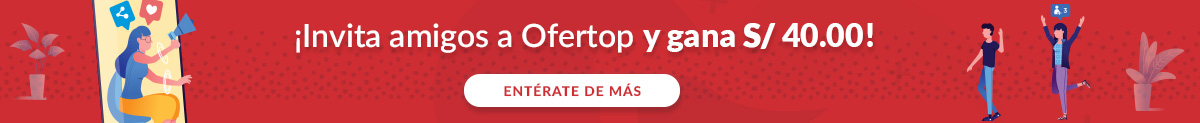
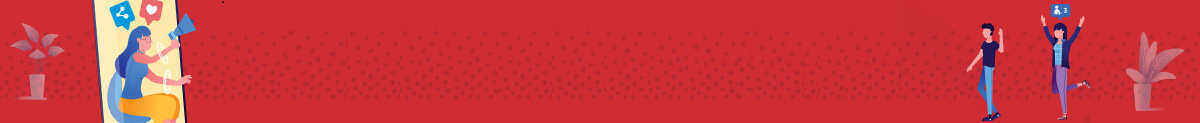
Actualización de OfertasPage.jsx
Correciones

diff --git a/okea-web-proyect/src/pages/Ofertas/OfertasPage.jsx b/okea-web-proyect/src/pages/Ofertas/OfertasPage.jsx
@@ -1,5 +1,5 @@
 import React, { useRef, useState } from "react";
-
+import { useNavigate } from "react-router-dom";
 import bannerImage from "../../assets/imagenes/Ofertas/banner.png";
 import bootsImage from "../../assets/imagenes/Ofertas/bota_banner.png";
 import sneakersImage from "../../assets/imagenes/Ofertas/zapatilla_banner.png";
@@ -10,7 +10,6 @@ import Producto2Image from "../../assets/imagenes/Ofertas/imagen2.png";
 import Producto3Image from "../../assets/imagenes/Ofertas/imagen3.png";
 import Producto4Image from "../../assets/imagenes/Ofertas/imagen4.png";
 import Producto5Image from "../../assets/imagenes/Ofertas/imagen5.png";
-import Producto6Image from "../../assets/imagenes/Ofertas/imagen6.png";
 import banner2Image from "../../assets/imagenes/Categorias/Panel/PanelCalzado.png";
 import Producto7Image from "../../assets/imagenes/Ofertas/imagen7.png";
 import Producto8Image from "../../assets/imagenes/Ofertas/imagen8.png";
@@ -18,29 +17,29 @@ import Producto9Image from "../../assets/imagenes/Ofertas/imagen9.png";
 import Producto10Image from "../../assets/imagenes/Ofertas/imagen10.png";
 import Producto111Image from "../../assets/imagenes/Ofertas/imagen111.png";
 import Producto121Image from "../../assets/imagenes/Ofertas/imagen121.png";
-import Frame1Image from "../../assets/imagenes/Ofertas/Frame1.png";
 import Producto13Image from "../../assets/imagenes/Ofertas/imagen13.jpg";
 import Producto141Image from "../../assets/imagenes/Ofertas/image14.png";
 import Producto15Image from "../../assets/imagenes/Ofertas/imagen15.jpg";
 import Producto16Image from "../../assets/imagenes/Ofertas/imagen16.png";
 import Producto17Image from "../../assets/imagenes/Ofertas/imagen17.png";
-import Frame2Image from "../../assets/imagenes/Ofertas/Frame2.png";
 import Producto19Image from "../../assets/imagenes/Ofertas/imagen19.png";
 import Producto20Image from "../../assets/imagenes/Ofertas/imagen20.png";
 import Producto21Image from "../../assets/imagenes/Ofertas/imagen21.png";
 import Producto22Image from "../../assets/imagenes/Ofertas/imagen22.png";
 import Producto23Image from "../../assets/imagenes/Ofertas/imagen23.png";
-import Frame4Image from "../../assets/imagenes/Ofertas/Frame4.png";
 import FooterPequeño from "../../components/Footer/FooterPequeño";
 import FooterGrande from "../../components/Footer/FooterGrande";
 import BloqueDeServicios from "../../components/BloqueDeServicios";
 import MarcasDestacadas from "../../components/MarcasDestacadas";
 import ProductCard from "../../components/ProductCard.jsx";
+import CardDescuento from './CardDescuento.jsx';
+import BannerOfertop from "./BannerOfertop.jsx";
 import { TagIconSmall, TagIconSmallDarkMode, ArrowRightIconBlack, ArrowLeftGrayBlueIcon, ArrowRightGrayBlueIcon } from "../../assets/iconos/iconoHome.jsx";
 import { useTheme } from "../../components/ThemeContext";
 
 export default function Oferta1() {
   const { isLight } = useTheme();
+  const navigate = useNavigate();
   const [currentSlide, setCurrentSlide] = useState(0);
   const slides = [bannerImage, banner2Image];
   const slidesPresentacion = [
@@ -69,7 +68,7 @@ export default function Oferta1() {
           </p>
 
           <div className="bg-[#5D1320] text-white shadow-lg cursor-pointer hover:bg-[#7D1C2A] transition-colors z-20
-            py-3 px-8 md:py-5 mb-10">
+            py-3 px-8 md:py-5 mb-10" onClick={() => navigate("/catalogo/calzado")}>
             <span className="text-base sm:text-lg lg:text-xl xl:text-2xl 2xl:text-2xl font-medium tracking-wide">
               F/W NUEVA COLECCIÓN
             </span>
@@ -149,7 +148,6 @@ export default function Oferta1() {
   };
 
   const containerClass = "w-full max-w-[1591px] mx-auto px-4 sm:px-6 lg:px-10";
-  const highlightCardClass = `relative flex h-[340px] sm:h-[360px] lg:h-[382px] w-full max-w-[516px] items-center justify-center rounded-[2px] border transition-colors duration-300 ease-in-out ${isLight ? "bg-white border-white/0" : "bg-[#292272] border-white/10"}`;
   const showcaseCardClass = `relative overflow-hidden rounded-[2px] transition-colors duration-300 ease-in-out`;
   const sliderSurfaceClass = `rounded-[2px] border transition-colors duration-300 ease-in-out ${isLight ? "border-white/0 bg-white" : "border-white/0 bg-[#120F31]"}`;
   const trackGap = "gap-6 sm:gap-7 lg:gap-8";
@@ -159,9 +157,9 @@ export default function Oferta1() {
   const bannerCtaClass = "flex items-center gap-2 rounded-full bg-[#DFE162] px-5 py-2.5 text-[#484900]";
 
   const highlightedOffers = [
-    { id: "highlight-1", image: Producto2Image, alt: "Producto destacado 1" },
-    { id: "highlight-2", image: Producto3Image, alt: "Producto destacado 2" },
-    { id: "highlight-3", image: Producto4Image, alt: "Producto destacado 3" },
+    { id: "highlight-1", discount: 50, discountArea: "Sofás", image: Producto2Image, area: "muebles-y-organizacion"},
+    { id: "highlight-2", discount: 30, discountArea: "Sofás", image: Producto3Image, area: "calzado"},
+    { id: "highlight-3", discount: 10, discountArea: "Sofás", image: Producto4Image, area: "tecnologia"},
   ];
 
   const premiumHighlights = [
@@ -287,19 +285,14 @@ export default function Oferta1() {
       </div>
 
       <div className={`${containerClass} mt-16`}>
-        <img
-          src={barraImage}
-          alt="Invita a tus amigos"
-          className="w-full rounded-[16px] object-cover"
-        />
+        <BannerOfertop backgroundImage={barraImage} />
       </div>
 
       <div className={`${containerClass} mt-10`}>
-        <div className={`flex flex-col md:flex-row justify-center items-center ${trackGap} rounded-[32px]`}>
+        <div className={`grid grid-cols-1 md:grid-cols-3 gap-6 justify-center items-center w-fit mx-auto`}>
           {highlightedOffers.map((offer) => (
-            <div key={offer.id} className={`${highlightCardClass} rounded-[32px]`}>
-              <img src={offer.image} alt={offer.alt} className="h-full w-full rounded-[16px]" />
-              <img src={Frame4Image} alt="Etiqueta de descuento" className="absolute left-0 -top-2 w-[140px]" />
+            <div key={offer.id} className="w-full">
+              <CardDescuento discount={offer.discount} discountArea={offer.discountArea} area={offer.area} image={offer.image} />
             </div>
           ))}
         </div>
@@ -309,7 +302,9 @@ export default function Oferta1() {
         <img
           src={Producto5Image}
           alt="Mundo Apple"
-          className="w-full rounded-[32px] object-cover shadow-[0_18px_48px_rgba(44,80,158,0.12)]"
+          draggable="false"
+          className="w-full rounded-[32px] object-cover shadow-[0_18px_48px_rgba(44,80,158,0.12)] cursor-pointer"
+          onClick={() => navigate("/catalogo/tecnologia")}
         />
       </div>
 
@@ -333,7 +328,7 @@ export default function Oferta1() {
           <p className={`${bannerSubtitleClass} py-1.5`} style={getTextStyle()}>
             Favoritos que te van a encantar
           </p>
-          <button className={bannerCtaClass}>
+          <button className={`${bannerCtaClass} lg:hover:bg-green-500 lg:hover:text-black lg:transition-colors lg:duration-300 lg:cursor-pointer`} onClick={() => navigate("/catalogo/calzado")}>
             <span className="font-popins text-sm">Ver todo</span>
             <div className="scale-60 -my-0.5">
               <ArrowRightIconBlack />
@@ -424,7 +419,7 @@ export default function Oferta1() {
           <p className={`${bannerSubtitleClass} py-1.5`} style={getTextStyle()}>
             Favoritos que te van a encantar
           </p>
-          <button className={bannerCtaClass}>
+          <button className={`${bannerCtaClass} lg:hover:bg-green-500 lg:hover:text-black lg:transition-colors lg:duration-300 lg:cursor-pointer`} onClick={() => navigate("/catalogo/tecnologia")}>
             <span className="font-popins text-sm">Ver todo</span>
             <div className="scale-60 -my-0.5">
               <ArrowRightIconBlack />
@@ -473,7 +468,7 @@ export default function Oferta1() {
               key={item.id}
               className={`${showcaseCardClass} col-span-full ${item.colSpan} flex items-center justify-center ${item.heightClass}`}
             >
-              <img src={item.image} alt={item.alt} className="h-full w-full rounded-[16px]" />
+              <img src={item.image} alt={item.alt} draggable="false" className="h-full w-full rounded-[16px] lg:hover:scale-105 lg:transition-transform lg:duration-500 lg:cursor-pointer" onClick={() => navigate(`/catalogo/tecnologia`)} />
               {item.footer && (
                 <div
                   className={`absolute bottom-0 left-0 w-full rounded-b-[16px] px-6 py-4 ${isLight ? "bg-[#DFE162] text-[#000000]" : "bg-[#3A31A9] text-white"
@@ -508,7 +503,7 @@ export default function Oferta1() {
           <p className={`${bannerSubtitleClass} py-1.5`} style={getTextStyle()}>
             Favoritos que te van a encantar
           </p>
-          <button className={bannerCtaClass}>
+          <button className={`${bannerCtaClass} lg:hover:bg-green-500 lg:hover:text-black lg:transition-colors lg:duration-300 lg:cursor-pointer`} onClick={() => navigate("/catalogo/calzado")}>
             <span className="font-popins text-sm">Ver todo</span>
             <div className="scale-60 -my-0.5">
               <ArrowRightIconBlack />
@@ -521,7 +516,9 @@ export default function Oferta1() {
         <img
           src={Producto19Image}
           alt="Colección adidas"
-          className="w-full rounded-[32px] object-cover shadow-[0_18px_48px_rgba(44,80,158,0.12)]"
+          draggable="false"
+          className="w-full rounded-[32px] object-cover shadow-[0_18px_48px_rgba(44,80,158,0.12)] lg:cursor-pointer"
+          onClick={() => navigate(`/catalogo/calzado`)}
         />
       </div>
       <div className={`${containerClass} mt-8 relative group`}>
@@ -575,7 +572,9 @@ export default function Oferta1() {
               <img
                 src={item.image}
                 alt={item.alt}
-                className="h-full w-full object-cover transition-transform duration-500 group-hover:scale-105"
+                draggable="false"
+                className="h-full w-full object-cover lg:transition-transform lg:duration-500 lg:hover:scale-110 lg:cursor-pointer"
+                onClick={() => navigate(`/catalogo/calzado`)}
               />
             </div>
           ))}

diff --git a/okea-web-proyect/src/pages/Ofertas/CardDescuento.jsx b/okea-web-proyect/src/pages/Ofertas/CardDescuento.jsx
@@ -1,0 +1,46 @@
+import React from 'react';
+import { useNavigate } from 'react-router-dom';
+
+const CardDescuento = ({ discount, discountArea, area, image }) => {
+    const navigate = useNavigate();
+    return (
+        <div className="relative w-full max-w-[516px] h-[380px] overflow-hidden rounded-xl shadow-md">
+            <img
+                src={image}
+                alt={`Descuento en ${discountArea}`}
+                draggable="false"
+                className="w-full h-full object-cover select-none lg:hover:scale-105 lg:transition-transform lg:duration-300 lg:cursor-pointer"
+                onClick={() => navigate(`/catalogo/${area}`)}
+            />
+            <div className="absolute top-1 left-1 bg-[#DCE775] text-[#37401C] pt-3 pb-2 px-3 rounded-lg shadow-sm w-36 flex flex-col">
+                <span className="text-[10px] font-semibold tracking-wider ml-1">
+                    HASTA
+                </span>
+                <div className="flex flex-row items-center gap-1 leading-none mt-1 -ml-2 w-full">
+                    <span className="text-[4.5rem] font-black tracking-tighter leading-none h-full">
+                        {discount}
+                    </span>
+                    <div className="flex flex-col items-center h-full">
+                        <span className="text-6xl font-semibold leading-[0.8]">
+                            %
+                        </span>
+                        <span className="text-[10px] font-bold leading-none mt-1">
+                            DCTO.
+                        </span>
+                    </div>
+                </div>
+                <div className="mt-1 ml-1 flex items-baseline gap-1">
+                    <p className="text-[10px] font-medium text-[#5a633a]">
+                        EN TODO LOS
+                    </p>
+                    <p className="text-sm font-black uppercase text-[#37401C]">
+                        {discountArea}
+                    </p>
+                </div>
+
+            </div>
+        </div>
+    );
+};
+
+export default CardDescuento;

diff --git a/okea-web-proyect/src/pages/Ofertas/BannerOfertop.jsx b/okea-web-proyect/src/pages/Ofertas/BannerOfertop.jsx
@@ -1,0 +1,26 @@
+import React from 'react';
+import { useNavigate } from 'react-router-dom';
+
+const BannerOfertop = ({ backgroundImage }) => {
+    const navigate = useNavigate();
+
+    return (
+        <div
+            className="w-full h-32 md:h-40 bg-cover bg-center flex flex-col justify-center items-center relative overflow-hidden shadow-sm rounded-lg"
+            style={{ backgroundImage: `url(${backgroundImage})` }}
+        >
+            <div className="text-center text-white px-4 z-10">
+                <h2 className="text-md md:text-3xl mb-5 md:mb-7 drop-shadow-lg">
+                    ¡Invita amigos a Ofertop
+                    {" "}
+                    <span className="font-bold">y gana S/ 40.00!</span>
+                </h2>                
+                <button className="bg-white lg:cursor-pointer text-red-600 text-sm md:text-base font-bold py-2 px-6 md:px-8 rounded-full shadow-md hover:bg-gray-200 transition-colors duration-300" onClick={() => navigate('/')}>
+                    ENTÉRATE DE MÁS
+                </button>
+            </div>
+        </div>
+    );
+};
+
+export default BannerOfertop;
